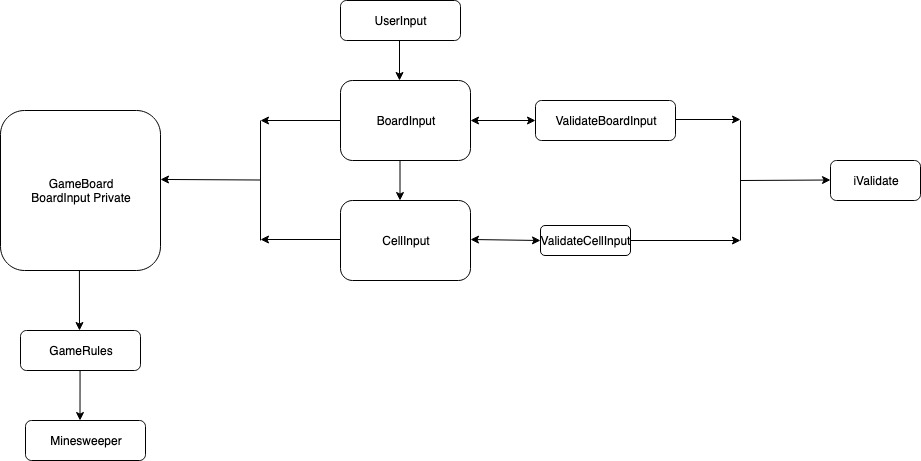
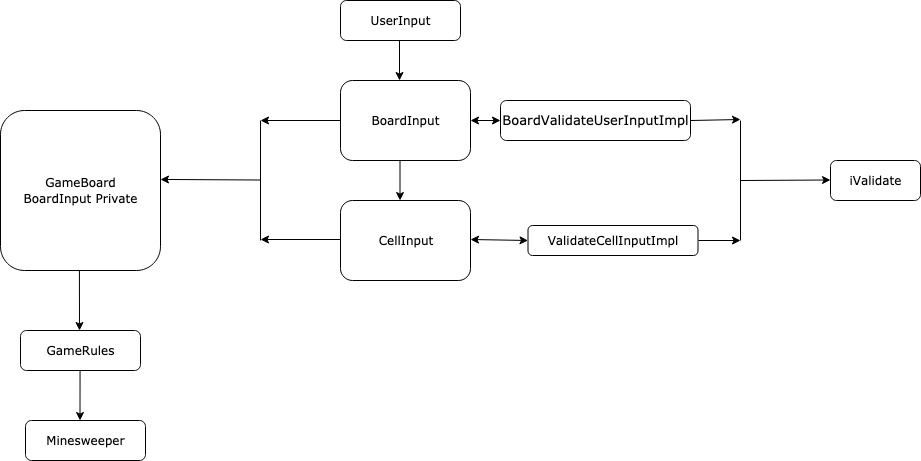
block diagram updated

diff --git a/Minesweeper/src/main/javaMain/Input/CellInput.java b/Minesweeper/src/main/javaMain/Input/CellInput.java
@@ -1,13 +1,13 @@
 package javaMain.Input;
 
-import javaMain.Validation.ValidateCellInput;
+import javaMain.Validation.ValidateCellInputImpl;
 
 import java.util.ArrayList;
 
 public class CellInput {
     private UserInput userInput;
     private ArrayList field = new ArrayList();
-    private ValidateCellInput validateCellInput = new ValidateCellInput();
+    private ValidateCellInputImpl validateCellInputImpl = new ValidateCellInputImpl();
 
     public CellInput(UserInput userInput) {
         this.userInput = userInput;
@@ -17,7 +17,7 @@ public class CellInput {
         String eachCell;
         for(int i =0 ; i < totalNumberOfCells ; i++) {
             eachCell = userInput.inputInSameLine();
-            while (!(validateCellInput.validateTheInput(eachCell))) {
+            while (!(validateCellInputImpl.validateTheInput(eachCell))) {
                 System.out.println("Not a Valid Input");
                 eachCell = userInput.inputInSameLine();
             }

diff --git a/Minesweeper/src/main/javaMain/Input/BoardInput.java b/Minesweeper/src/main/javaMain/Input/BoardInput.java
@@ -1,10 +1,10 @@
 package javaMain.Input;
 
-import javaMain.Validation.BoardValidateUserInput;
+import javaMain.Validation.BoardValidateUserInputImpl;
 
 public class BoardInput {
     private UserInput userInput;
-    private BoardValidateUserInput boardValidateUserInput = new BoardValidateUserInput();
+    private BoardValidateUserInputImpl boardValidateUserInputImpl = new BoardValidateUserInputImpl();
     public BoardInput(UserInput userInput) {
         this.userInput = userInput;
     }
@@ -13,7 +13,7 @@ public class BoardInput {
     {
         String fieldLayout = userInput.inputInNextLine();
 
-        while(!(boardValidateUserInput.validateTheFormatandLength(fieldLayout) ))
+        while(!(boardValidateUserInputImpl.validateTheFormatandLength(fieldLayout) ))
         {
             System.out.println("Try Again!");
             fieldLayout = userInput.inputInNextLine();

diff --git a/Minesweeper/src/test/javaMain/ValidationTest/BoardValidateUserInputImplTest.java b/Minesweeper/src/test/javaMain/ValidationTest/BoardValidateUserInputImplTest.java
@@ -1,0 +1,26 @@
+package javaMain.ValidationTest;
+
+import javaMain.Validation.BoardValidateUserInputImpl;
+import org.junit.Test;
+
+import static org.junit.Assert.*;
+
+public class BoardValidateUserInputImplTest {
+    private BoardValidateUserInputImpl boardValidateUserInputImpl = new BoardValidateUserInputImpl();
+
+    @Test
+    public void alphabetInputReturnsFalse() {
+        assertFalse(boardValidateUserInputImpl.validateTheInput("a"));
+    }
+    @Test
+    public void twoIntegerReturnsTrue() {
+        assertTrue(boardValidateUserInputImpl.checkingifInputLengthIsTwo("44"));
+    }
+    @Test
+    public void oneIntegerReturnsFalse() {
+        assertFalse(boardValidateUserInputImpl.checkingifInputLengthIsTwo("4"));
+    }
+    @Test
+    public void emptyInputReturnsFalse() {
+        assertFalse(boardValidateUserInputImpl.validateTheInput("")); }
+}

diff --git a/Minesweeper/src/main/javaMain/App.java b/Minesweeper/src/main/javaMain/App.java
@@ -10,7 +10,7 @@ public class App {
         UserInput userInput = new UserInput();
         BoardInput boardInput = new BoardInput(userInput);
         CellInput cellInput = new CellInput(userInput);
-        MinesweeperGame minesweeperGame = new MinesweeperGame(userInput, boardInput,cellInput);
-        System.out.println(minesweeperGame.startGame(boardInput,cellInput));
+        MinesweeperGame minesweeper = new MinesweeperGame(userInput, boardInput,cellInput);
+        minesweeper.startGame(boardInput,cellInput);
     }
 }

diff --git a/Minesweeper/src/test/javaMain/ValidationTest/ValidateCellInputImplTest.java b/Minesweeper/src/test/javaMain/ValidationTest/ValidateCellInputImplTest.java
@@ -1,0 +1,15 @@
+package javaMain.ValidationTest;
+
+import javaMain.Validation.ValidateCellInputImpl;
+import org.junit.Test;
+
+import static org.junit.Assert.assertTrue;
+
+
+public class ValidateCellInputImplTest {
+       private ValidateCellInputImpl validateCellInputImpl = new ValidateCellInputImpl();
+    @Test
+    public void validateTheInput() {
+        assertTrue(validateCellInputImpl.validateTheInput("."));
+    }
+}

diff --git a/Minesweeper/src/main/javaMain/Validation/ValidateCellInputImpl.java b/Minesweeper/src/main/javaMain/Validation/ValidateCellInputImpl.java
@@ -1,6 +1,6 @@
 package javaMain.Validation;
 
-public class ValidateCellInput implements ValidateUserInput {
+public class ValidateCellInputImpl implements ValidateUserInput {
 
     public boolean validateTheInput(String inputToValidate) {
         return (inputToValidate.equals(".") ||inputToValidate.equals("*"));

diff --git a/Minesweeper/src/main/javaMain/Game/MinesweeperGame.java b/Minesweeper/src/main/javaMain/Game/MinesweeperGame.java
@@ -47,6 +47,7 @@ public class MinesweeperGame {
             boardInput = new BoardInput(userInput);
             gridInput = boardInput.enterPerimeter();
         }
+        System.out.println(sb.toString());
         return sb.toString();
     }
 

diff --git a/Minesweeper/src/main/javaMain/Validation/BoardValidateUserInputImpl.java b/Minesweeper/src/main/javaMain/Validation/BoardValidateUserInputImpl.java
@@ -1,6 +1,6 @@
 package javaMain.Validation;
 
-public class BoardValidateUserInput {
+public class BoardValidateUserInputImpl {
 
     public boolean validateTheInput(String inputToValidate) {
         try {
